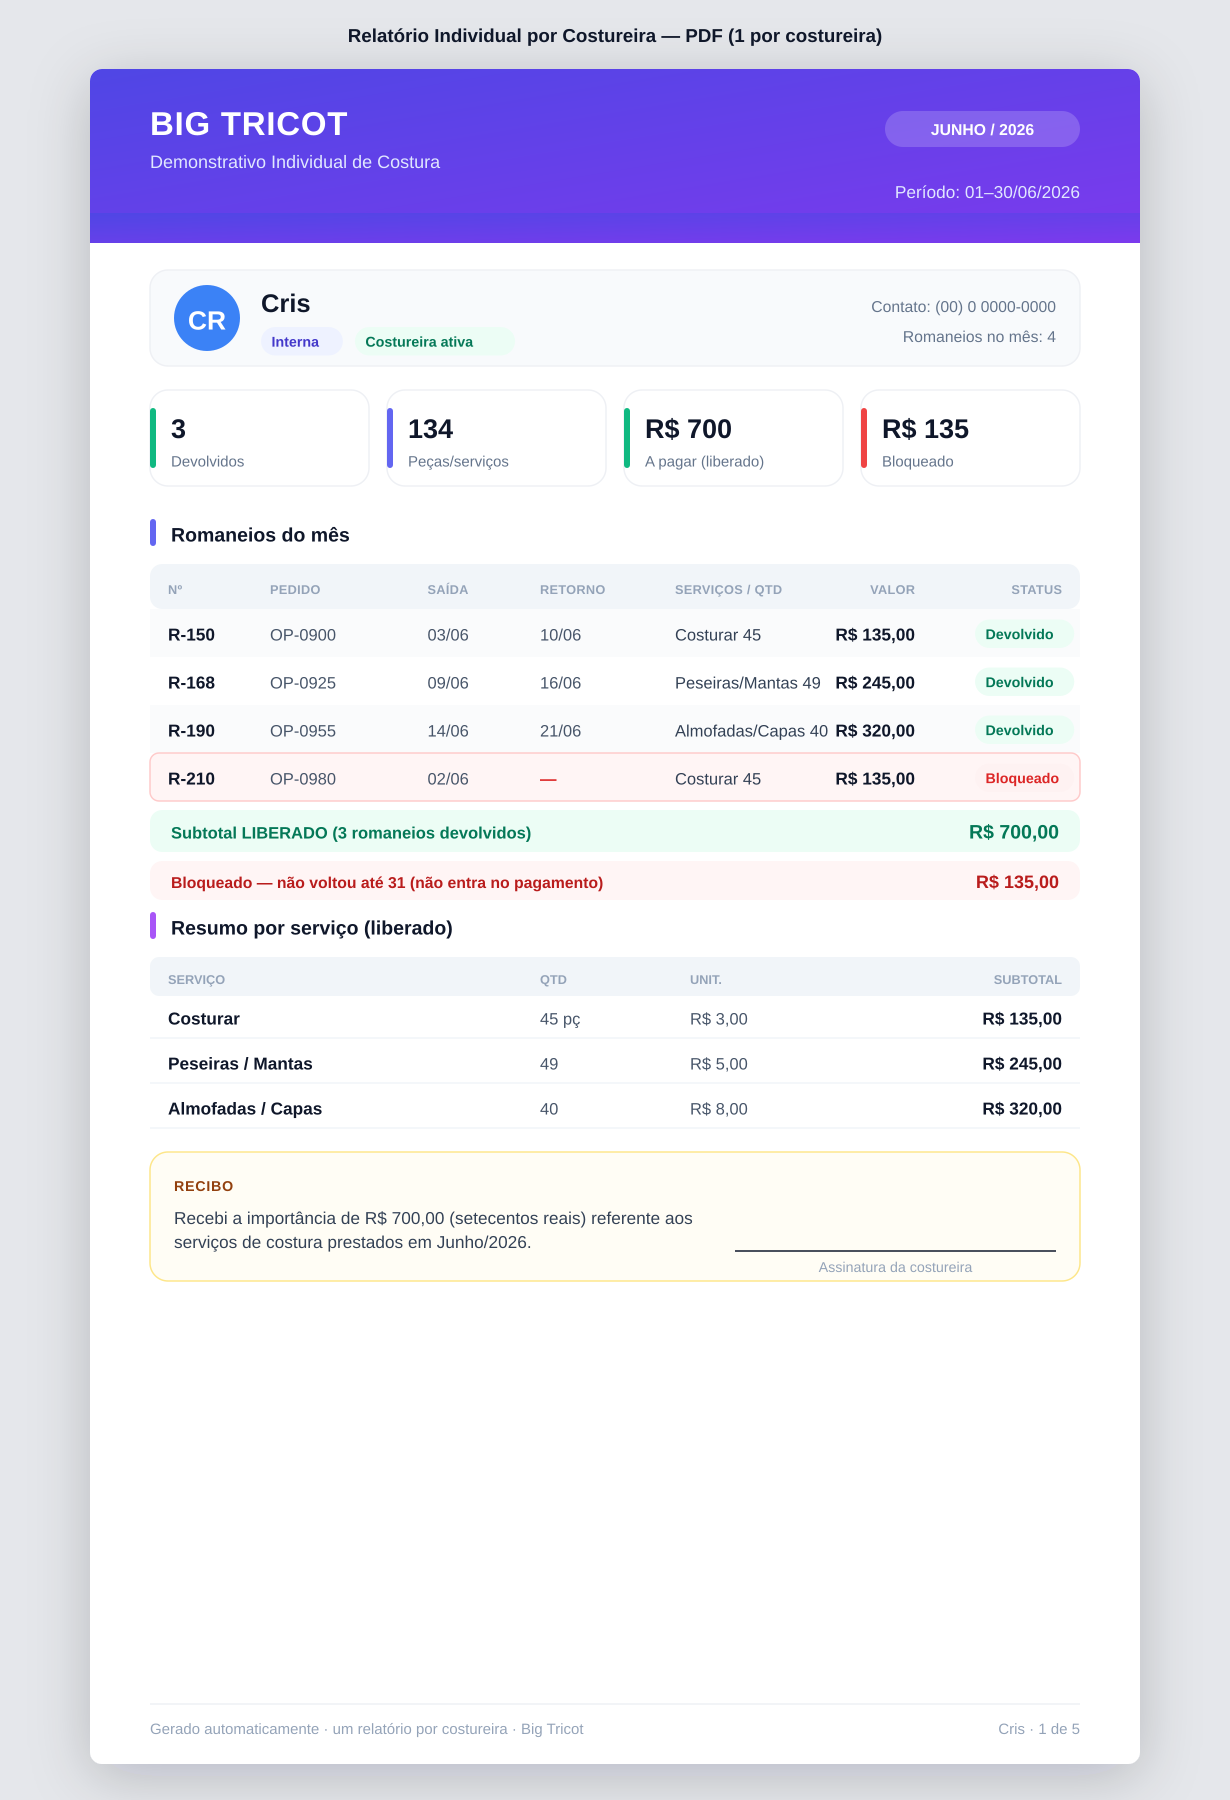
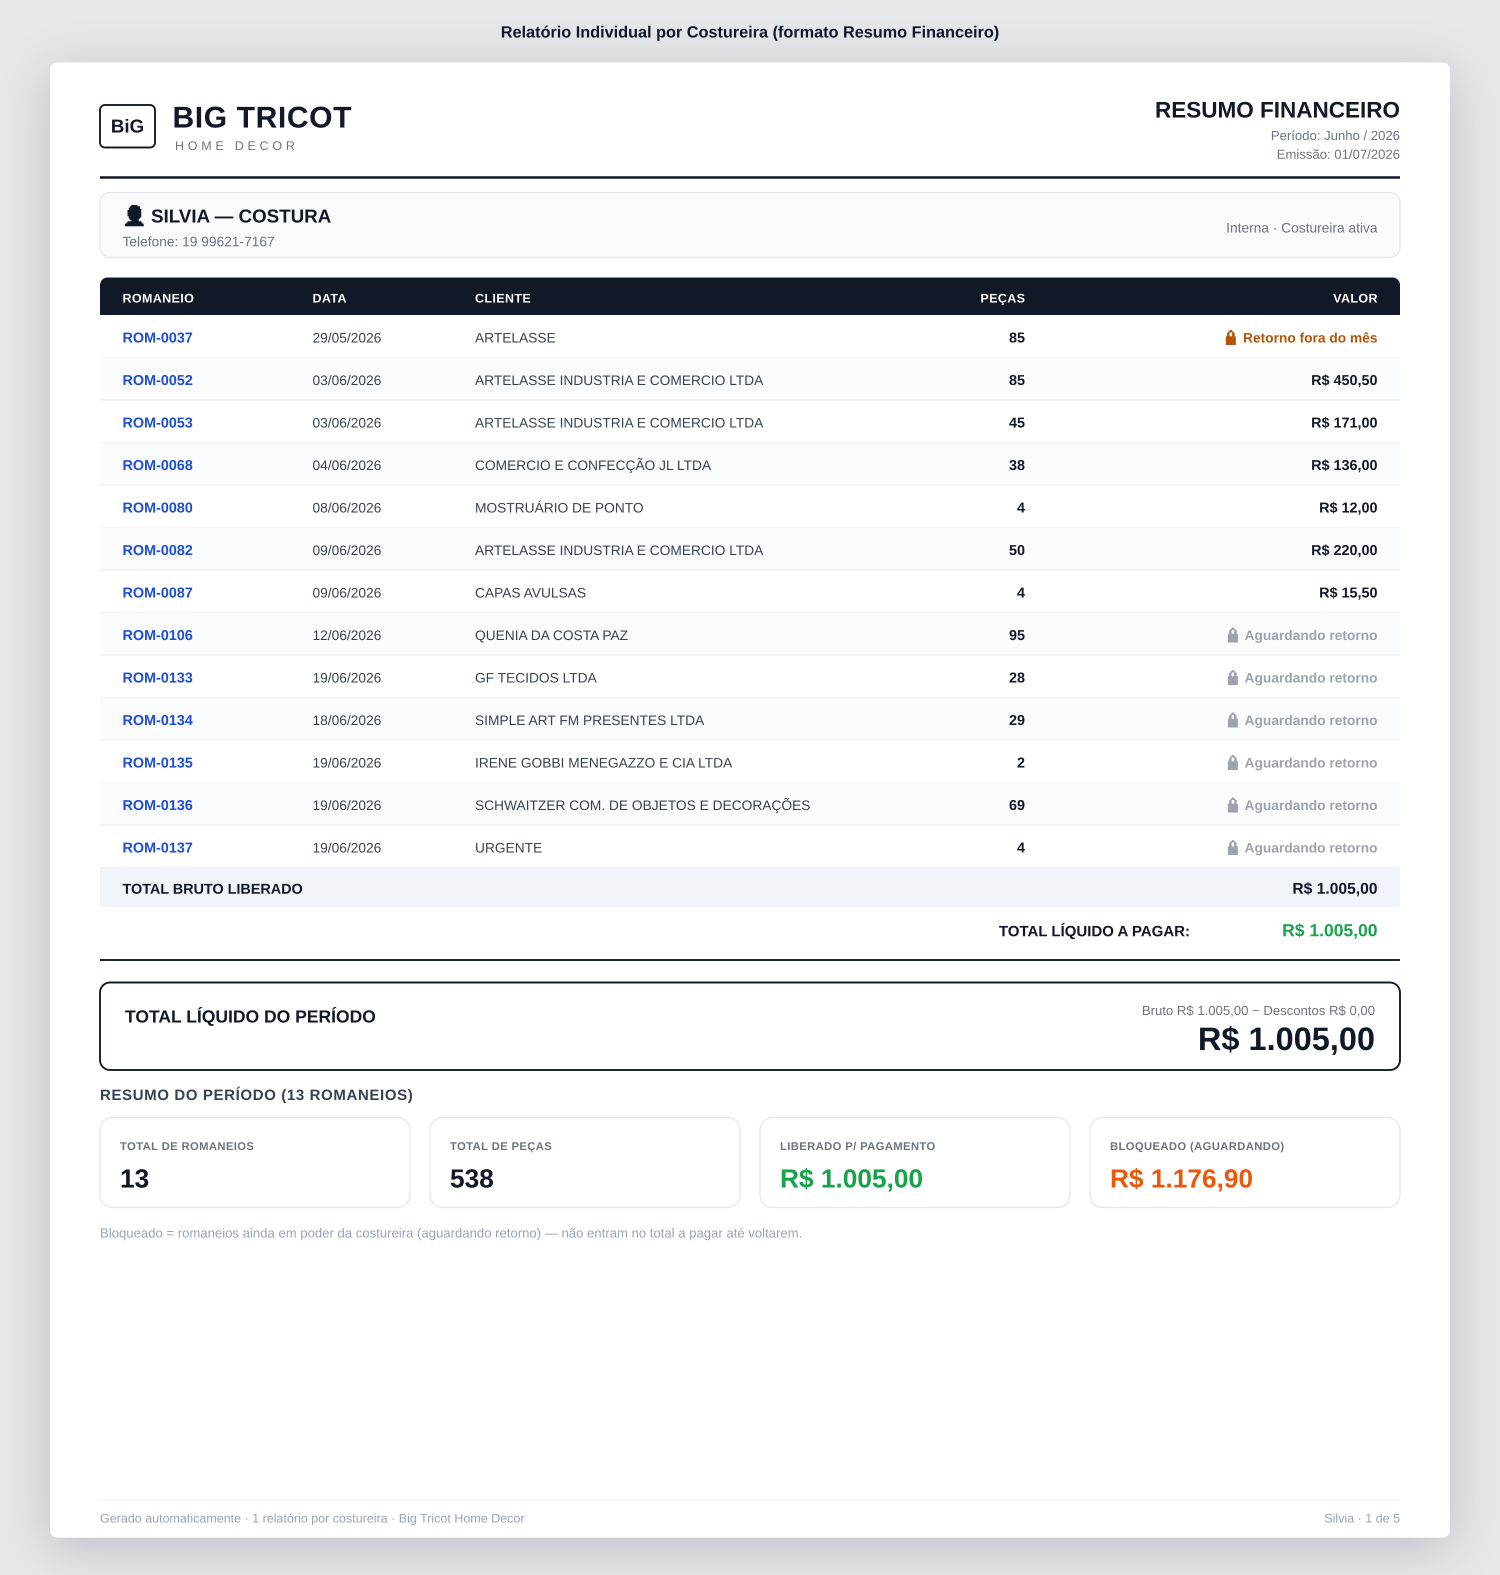
design: relatorio individual por costureira no formato Resumo Financeiro (colunas ROMANEIO/DATA/CLIENTE/PECAS/VALOR, status aguardando/fora do mes, totais e resumo do periodo) - alinhado ao sistema real
Claude-Session: https://claude.ai/code/session_01XdKmwhB2iKVzR9dcT8XvFF

diff --git a/scripts/gen_relatorio_individual.py b/scripts/gen_relatorio_individual.py
@@ -10,121 +10,117 @@ def rect(x,y,w,h,fill,rx=0,stroke=None,sw=1,filt=None,op=None):
     return s+'/>'
 def line(x1,y1,x2,y2,stroke,sw=1):
     return f'<line x1="{x1}" y1="{y1}" x2="{x2}" y2="{y2}" stroke="{stroke}" stroke-width="{sw}"/>'
-def text(x,y,s,size=13,fill="#0f172a",weight="normal",anchor="start",ls=None):
+def text(x,y,s,size=13,fill="#111827",weight="normal",anchor="start",ls=None,family=None):
     extra=f' letter-spacing="{ls}"' if ls else ''
-    return f'<text x="{x}" y="{y}" font-size="{size}" fill="{fill}" font-weight="{weight}" text-anchor="{anchor}"{extra}>{esc(s)}</text>'
-def circle(cx,cy,r,fill): return f'<circle cx="{cx}" cy="{cy}" r="{r}" fill="{fill}"/>'
-def avatar(cx,cy,r,ini,fill,fg="#fff"): return circle(cx,cy,r,fill)+text(cx,cy+r*0.35,ini,r*0.8,fg,weight="bold",anchor="middle")
-def chip(x,y,label,bg,fg,fs=9.5,h=19):
-    w=14+len(label)*5.8
-    return rect(x,y,w,h,bg,rx=h/2)+text(x+7,y+h*0.69,label,fs,fg,weight="bold"),w
-DEFS=('<defs>'
- '<linearGradient id="g_brand" x1="0" y1="0" x2="1" y2="1"><stop offset="0" stop-color="#4f46e5"/><stop offset="1" stop-color="#7c3aed"/></linearGradient>'
- '<filter id="paper" x="-15%" y="-6%" width="130%" height="112%"><feDropShadow dx="0" dy="8" stdDeviation="20" flood-color="#0f172a" flood-opacity="0.20"/></filter></defs>')
+    fam=f' font-family="{family}"' if family else ''
+    return f'<text x="{x}" y="{y}" font-size="{size}" fill="{fill}" font-weight="{weight}" text-anchor="{anchor}"{extra}{fam}>{esc(s)}</text>'
+DEFS=('<defs><filter id="paper" x="-15%" y="-6%" width="130%" height="112%">'
+ '<feDropShadow dx="0" dy="8" stdDeviation="20" flood-color="#0f172a" flood-opacity="0.18"/></filter></defs>')
 def svg(w,h,body,bg="#e5e7eb"):
     return (f'<svg xmlns="http://www.w3.org/2000/svg" width="{w}" height="{h}" viewBox="0 0 {w} {h}" '
             f'font-family="Inter, Segoe UI, Helvetica, Arial, sans-serif">'+DEFS+rect(0,0,w,h,bg)+body+'</svg>')
 
-W,H=820,1200
-b=text(W/2,28,"Relatório Individual por Costureira — PDF (1 por costureira)",12.5,"#0f172a",weight="bold",anchor="middle")
-px,py,pw,ph=60,46,700,1130
-b+=rect(px,py,pw,ph,"#ffffff",rx=8,filt="paper")
+W,H=1200,1260
+b=text(W/2,30,"Relatório Individual por Costureira (formato Resumo Financeiro)",13,"#0f172a",weight="bold",anchor="middle")
+px,py,pw,ph=40,50,1120,1180
+b+=rect(px,py,pw,ph,"#ffffff",rx=6,filt="paper")
 ix=px+40; iw=pw-80
 
-# header band
-hh=116
-b+=rect(px,py,pw,hh,"url(#g_brand)",rx=8)+rect(px,py+hh-20,pw,20,"url(#g_brand)")
-b+=text(ix,py+44,"BIG TRICOT",22,"#fff",weight="bold",ls="0.5")
-b+=text(ix,py+66,"Demonstrativo Individual de Costura",12,"#e0e7ff")
-b+=rect(px+pw-40-130,py+28,130,24,"#ffffff2e",rx=12)+text(px+pw-40-65,py+44,"JUNHO / 2026",10.5,"#fff",weight="bold",anchor="middle")
-b+=text(px+pw-40,py+86,"Período: 01–30/06/2026",11.5,"#e0e7ff",anchor="end")
+# ---------- cabeçalho ----------
+b+=rect(ix,py+34,44,34,"#ffffff",rx=4,stroke="#111827",sw=1.5)+text(ix+22,py+56,"BiG",15,"#111827",weight="bold",anchor="middle")
+b+=text(ix+58,py+52,"BIG TRICOT",24,"#111827",weight="bold",ls="0.5")
+b+=text(ix+60,py+70,"HOME DECOR",10,"#6b7280",ls="3")
+b+=text(ix+iw,py+44,"RESUMO FINANCEIRO",18,"#111827",weight="bold",anchor="end")
+b+=text(ix+iw,py+62,"Período: Junho / 2026",10.5,"#6b7280",anchor="end")
+b+=text(ix+iw,py+77,"Emissão: 01/07/2026",10.5,"#6b7280",anchor="end")
+b+=line(ix,py+92,ix+iw,py+92,"#111827",2)
 
-# costureira info card
-cy=py+hh+18
-b+=rect(ix,cy,iw,64,"#f8fafc",rx=12,stroke="#eef0f4")
-b+=avatar(ix+38,cy+32,22,"CR","#3b82f6")
-b+=text(ix+74,cy+28,"Cris",17,"#0f172a",weight="bold")
-c,w=chip(ix+74,cy+38,"Interna","#eef2ff","#4338ca"); b+=c
-c2,w2=chip(ix+74+w+8,cy+38,"Costureira ativa","#ecfdf5","#047857"); b+=c2
-b+=text(ix+iw-16,cy+28,"Contato: (00) 0 0000-0000",10.5,"#64748b",anchor="end")
-b+=text(ix+iw-16,cy+48,"Romaneios no mês: 4",10.5,"#64748b",anchor="end")
+# ---------- faixa costureira ----------
+fy=py+104
+b+=rect(ix,fy,iw,52,"#f8fafc",rx=8,stroke="#e5e7eb")
+b+=text(ix+18,fy+24,"👤  SILVIA — COSTURA",15,"#111827",weight="bold")
+b+=text(ix+18,fy+43,"Telefone: 19 99621-7167",11,"#6b7280")
+b+=text(ix+iw-18,fy+32,"Interna · Costureira ativa",11,"#6b7280",anchor="end")
 
-# KPIs
-ky=cy+64+16; kw=(iw-3*12)/4
-kpis=[("Devolvidos","3","#10b981"),("Peças/serviços","134","#6366f1"),("A pagar (liberado)","R$ 700","#10b981"),("Bloqueado","R$ 135","#ef4444")]
-for i,(l,n,c) in enumerate(kpis):
-    kx=ix+i*(kw+12)
-    b+=rect(kx,ky,kw,64,"#ffffff",rx=12,stroke="#eef0f4")+rect(kx,ky+12,4,40,c,rx=2)
-    b+=text(kx+14,ky+32,n,18,"#0f172a",weight="bold")+text(kx+14,ky+51,l,10,"#64748b")
+# ---------- tabela ----------
+ty=fy+68
+b+=rect(ix,ty,iw,30,"#111827",rx=6)+rect(ix,ty+14,iw,16,"#111827")
+cR=ix+18; cD=ix+170; cC=ix+300; cP=ix+iw-300; cV=ix+iw-18
+b+=text(cR,ty+20,"ROMANEIO",10,"#ffffff",weight="bold",ls="0.3")
+b+=text(cD,ty+20,"DATA",10,"#ffffff",weight="bold",ls="0.3")
+b+=text(cC,ty+20,"CLIENTE",10,"#ffffff",weight="bold",ls="0.3")
+b+=text(cP,ty+20,"PEÇAS",10,"#ffffff",weight="bold",ls="0.3",anchor="end")
+b+=text(cV,ty+20,"VALOR",10,"#ffffff",weight="bold",ls="0.3",anchor="end")
+rows=[
+ ("ROM-0037","29/05/2026","ARTELASSE","85","fora"),
+ ("ROM-0052","03/06/2026","ARTELASSE INDUSTRIA E COMERCIO LTDA","85","R$ 450,50"),
+ ("ROM-0053","03/06/2026","ARTELASSE INDUSTRIA E COMERCIO LTDA","45","R$ 171,00"),
+ ("ROM-0068","04/06/2026","COMERCIO E CONFECÇÃO JL LTDA","38","R$ 136,00"),
+ ("ROM-0080","08/06/2026","MOSTRUÁRIO DE PONTO","4","R$ 12,00"),
+ ("ROM-0082","09/06/2026","ARTELASSE INDUSTRIA E COMERCIO LTDA","50","R$ 220,00"),
+ ("ROM-0087","09/06/2026","CAPAS AVULSAS","4","R$ 15,50"),
+ ("ROM-0106","12/06/2026","QUENIA DA COSTA PAZ","95","aguard"),
+ ("ROM-0133","19/06/2026","GF TECIDOS LTDA","28","aguard"),
+ ("ROM-0134","18/06/2026","SIMPLE ART FM PRESENTES LTDA","29","aguard"),
+ ("ROM-0135","19/06/2026","IRENE GOBBI MENEGAZZO E CIA LTDA","2","aguard"),
+ ("ROM-0136","19/06/2026","SCHWAITZER COM. DE OBJETOS E DECORAÇÕES","69","aguard"),
+ ("ROM-0137","19/06/2026","URGENTE","4","aguard"),
+]
+ry=ty+30; rh=34
+for i,(num,dt,cli,pc,val) in enumerate(rows):
+    if i%2==1: b+=rect(ix,ry,iw,rh,"#fafbfc")
+    b+=text(cR,ry+22,num,11.5,"#1d4ed8",weight="bold")
+    b+=text(cD,ry+22,dt,11,"#374151")
+    b+=text(cC,ry+22,cli,11,"#374151")
+    b+=text(cP,ry+22,pc,11.5,"#111827",weight="bold",anchor="end")
+    if val=="fora":
+        b+=text(cV,ry+22,"🔒 Retorno fora do mês",11,"#b45309",weight="bold",anchor="end")
+    elif val=="aguard":
+        b+=text(cV,ry+22,"🔒 Aguardando retorno",11,"#9ca3af",weight="bold",anchor="end")
+    else:
+        b+=text(cV,ry+22,val,11.5,"#111827",weight="bold",anchor="end")
+    b+=line(ix,ry+rh,ix+iw,ry+rh,"#eef0f4",1)
+    ry+=rh
+# total bruto liberado
+b+=rect(ix,ry,iw,32,"#f1f5f9")
+b+=text(cR,ry+21,"TOTAL BRUTO LIBERADO",11.5,"#111827",weight="bold")
+b+=text(cV,ry+21,"R$ 1.005,00",12.5,"#111827",weight="bold",anchor="end")
+ry+=32
+b+=rect(ix,ry,iw,34,"#ffffff")
+b+=text(cV-150,ry+23,"TOTAL LÍQUIDO A PAGAR:",12,"#111827",weight="bold",anchor="end")
+b+=text(cV,ry+23,"R$ 1.005,00",14,"#16a34a",weight="bold",anchor="end")
+ry+=34+8
+b+=line(ix,ry,ix+iw,ry,"#111827",1.5)
 
-# tabela romaneios
-def sectitle(yy,txt,accent):
-    return rect(ix,yy-12,4,18,accent,rx=2)+text(ix+14,yy+3,txt,13,"#0f172a",weight="bold")
-ty=ky+64+34
-b+=sectitle(ty,"Romaneios do mês","#6366f1")
-ty+=18
-b+=rect(ix,ty,iw,30,"#f1f5f9",rx=8)
-cols=[("Nº",ix+12),("PEDIDO",ix+80),("SAÍDA",ix+185),("RETORNO",ix+260),("SERVIÇOS / QTD",ix+350),("VALOR",ix+iw-110),("STATUS",ix+iw-12)]
-for t,hx in cols:
-    an="end" if t in("VALOR","STATUS") else "start"
-    b+=text(hx,ty+20,t,8.5,"#94a3b8",weight="bold",ls="0.2",anchor=an)
-rows=[("R-150","OP-0900","03/06","10/06","Costurar 45","R$ 135,00","ok"),
-      ("R-168","OP-0925","09/06","16/06","Peseiras/Mantas 49","R$ 245,00","ok"),
-      ("R-190","OP-0955","14/06","21/06","Almofadas/Capas 40","R$ 320,00","ok"),
-      ("R-210","OP-0980","02/06","—","Costurar 45","R$ 135,00","blk")]
-ry=ty+30
-for i,(num,ped,sai,ret,serv,vl,st) in enumerate(rows):
-    if st=="blk": b+=rect(ix,ry,iw,32,"#fff5f5",rx=6,stroke="#fecaca")
-    elif i%2==0: b+=rect(ix,ry,iw,32,"#fafbfc")
-    b+=text(ix+12,ry+21,num,11.5,"#0f172a",weight="bold")
-    b+=text(ix+80,ry+21,ped,11,"#475569")
-    b+=text(ix+185,ry+21,sai,11,"#475569")
-    b+=text(ix+260,ry+21,ret,11,"#dc2626" if ret=="—" else "#475569",weight="bold" if ret=="—" else "normal")
-    b+=text(ix+350,ry+21,serv,11,"#334155")
-    b+=text(ix+iw-110,ry+21,vl,11.5,"#0f172a",weight="bold",anchor="end")
-    if st=="ok": c,w=chip(ix+iw-12-58,ry+7,"Devolvido","#ecfdf5","#047857")
-    else: c,w=chip(ix+iw-12-58,ry+7,"Bloqueado","#fef2f2","#dc2626")
-    b+=c
-    ry+=32
-# subtotais
-b+=rect(ix,ry+6,iw,28,"#ecfdf5",rx=8)
-b+=text(ix+14,ry+25,"Subtotal LIBERADO (3 romaneios devolvidos)",11,"#047857",weight="bold")
-b+=text(ix+iw-14,ry+25,"R$ 700,00",13,"#047857",weight="bold",anchor="end")
-ry+=34
-b+=rect(ix,ry+6,iw,26,"#fff5f5",rx=8)
-b+=text(ix+14,ry+24,"Bloqueado — não voltou até 31 (não entra no pagamento)",10.5,"#b91c1c",weight="bold")
-b+=text(ix+iw-14,ry+24,"R$ 135,00",12,"#b91c1c",weight="bold",anchor="end")
-ry+=32+20
-
-# resumo por serviço
-b+=sectitle(ry,"Resumo por serviço (liberado)","#a855f7")
+# ---------- total líquido do período ----------
 ry+=18
-serv=[("Costurar","45 pç","R$ 3,00","R$ 135,00"),
-      ("Peseiras / Mantas","49","R$ 5,00","R$ 245,00"),
-      ("Almofadas / Capas","40","R$ 8,00","R$ 320,00")]
-b+=rect(ix,ry,iw,26,"#f1f5f9",rx=6)
-for t,hx in [("SERVIÇO",ix+12),("QTD",ix+260),("UNIT.",ix+360),("SUBTOTAL",ix+iw-12)]:
-    b+=text(hx,ry+18,t,8.5,"#94a3b8",weight="bold",anchor="end" if t=="SUBTOTAL" else "start")
-ry+=26
-for nm,q,u,sub in serv:
-    b+=text(ix+12,ry+19,nm,11.5,"#0f172a",weight="bold")+text(ix+260,ry+19,q,11,"#475569")+text(ix+360,ry+19,u,11,"#475569")+text(ix+iw-12,ry+19,sub,11.5,"#0f172a",weight="bold",anchor="end")
-    b+=line(ix,ry+28,ix+iw,ry+28,"#f1f5f9",1); ry+=30
+b+=rect(ix,ry,iw,70,"#ffffff",rx=8,stroke="#111827",sw=1.5)
+b+=text(ix+20,ry+32,"TOTAL LÍQUIDO DO PERÍODO",14,"#111827",weight="bold")
+b+=text(ix+iw-20,ry+26,"Bruto R$ 1.005,00 − Descontos R$ 0,00",10.5,"#6b7280",anchor="end")
+b+=text(ix+iw-20,ry+54,"R$ 1.005,00",26,"#111827",weight="bold",anchor="end")
+ry+=70+24
 
-# recibo / assinatura
+# ---------- resumo do período ----------
+b+=text(ix,ry,"RESUMO DO PERÍODO (13 ROMANEIOS)",12,"#374151",weight="bold",ls="0.5")
 ry+=14
-b+=rect(ix,ry,iw,86,"#fffdf5",rx=12,stroke="#fde68a")
-b+=text(ix+16,ry+26,"RECIBO",9.5,"#92400e",weight="bold",ls="0.5")
-b+=text(ix+16,ry+48,"Recebi a importância de R$ 700,00 (setecentos reais) referente aos",11.5,"#334155")
-b+=text(ix+16,ry+64,"serviços de costura prestados em Junho/2026.",11.5,"#334155")
-b+=line(ix+iw-230,ry+66,ix+iw-16,ry+66,"#0f172a",1)+text(ix+iw-123,ry+80,"Assinatura da costureira",9.5,"#94a3b8",anchor="middle")
+cards=[("TOTAL DE ROMANEIOS","13","#111827"),("TOTAL DE PEÇAS","538","#111827"),
+       ("LIBERADO P/ PAGAMENTO","R$ 1.005,00","#16a34a"),("BLOQUEADO (AGUARDANDO)","R$ 1.176,90","#ea580c")]
+cw=(iw-3*16)/4
+for i,(l,n,c) in enumerate(cards):
+    cx=ix+i*(cw+16)
+    b+=rect(cx,ry,cw,72,"#ffffff",rx=10,stroke="#e5e7eb")
+    b+=text(cx+16,ry+26,l,9,"#6b7280",weight="bold",ls="0.3")
+    b+=text(cx+16,ry+56,n,21,c,weight="bold")
+ry+=72+18
+b+=text(ix,ry+6,"Bloqueado = romaneios ainda em poder da costureira (aguardando retorno) — não entram no total a pagar até voltarem.",10.5,"#94a3b8")
 
 # footer
-fyy=py+ph-40
+fyy=py+ph-30
 b+=line(ix,fyy,ix+iw,fyy,"#eef0f4",1)
-b+=text(ix,fyy+20,"Gerado automaticamente · um relatório por costureira · Big Tricot",10,"#94a3b8")
-b+=text(px+pw-40,fyy+20,"Cris · 1 de 5",10,"#94a3b8",anchor="end")
+b+=text(ix,fyy+18,"Gerado automaticamente · 1 relatório por costureira · Big Tricot Home Decor",10,"#94a3b8")
+b+=text(ix+iw,fyy+18,"Silvia · 1 de 5",10,"#94a3b8",anchor="end")
 
 os.makedirs(OUT_SVG,exist_ok=True)
 open(os.path.join(OUT_SVG,"51-relatorio-individual-pdf.svg"),"w").write(svg(W,H,b))
-subprocess.run(["rsvg-convert","-z","1.5",os.path.join(OUT_SVG,"51-relatorio-individual-pdf.svg"),"-o",os.path.join(OUT_PNG,"51-relatorio-individual-pdf.png")],check=True)
-print("OK relatorio individual")
+subprocess.run(["rsvg-convert","-z","1.25",os.path.join(OUT_SVG,"51-relatorio-individual-pdf.svg"),"-o",os.path.join(OUT_PNG,"51-relatorio-individual-pdf.png")],check=True)
+print("OK relatorio individual v2")
